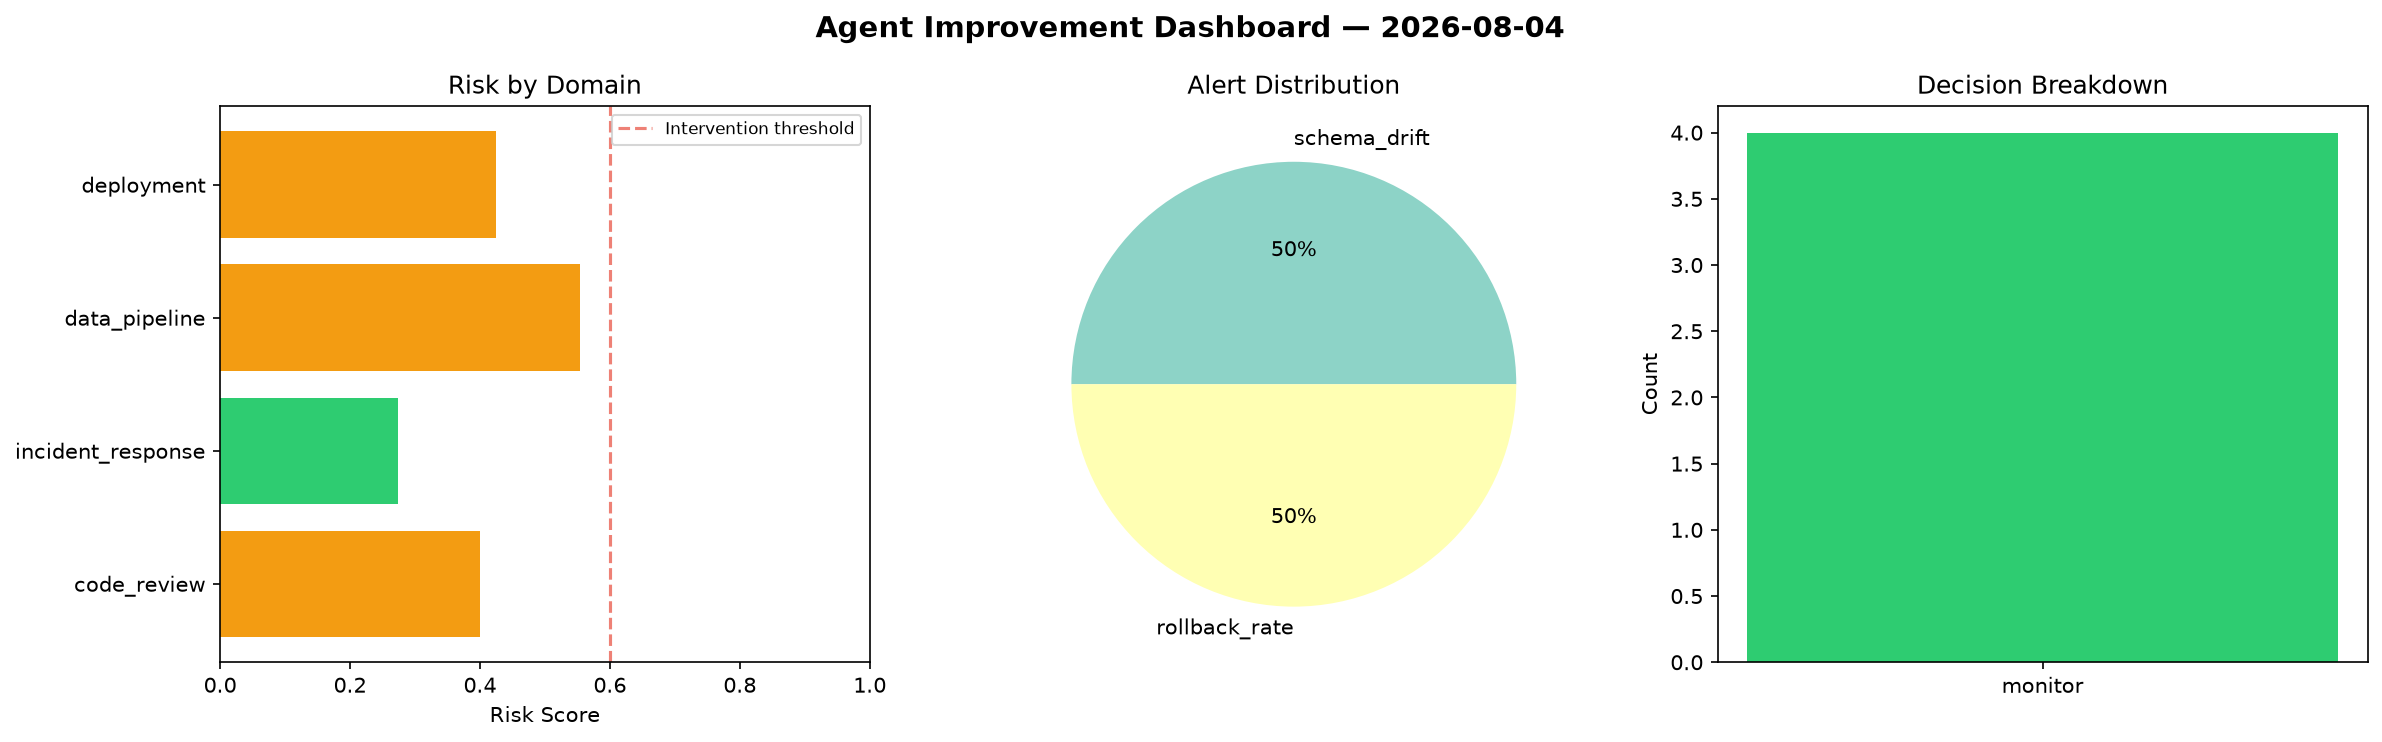
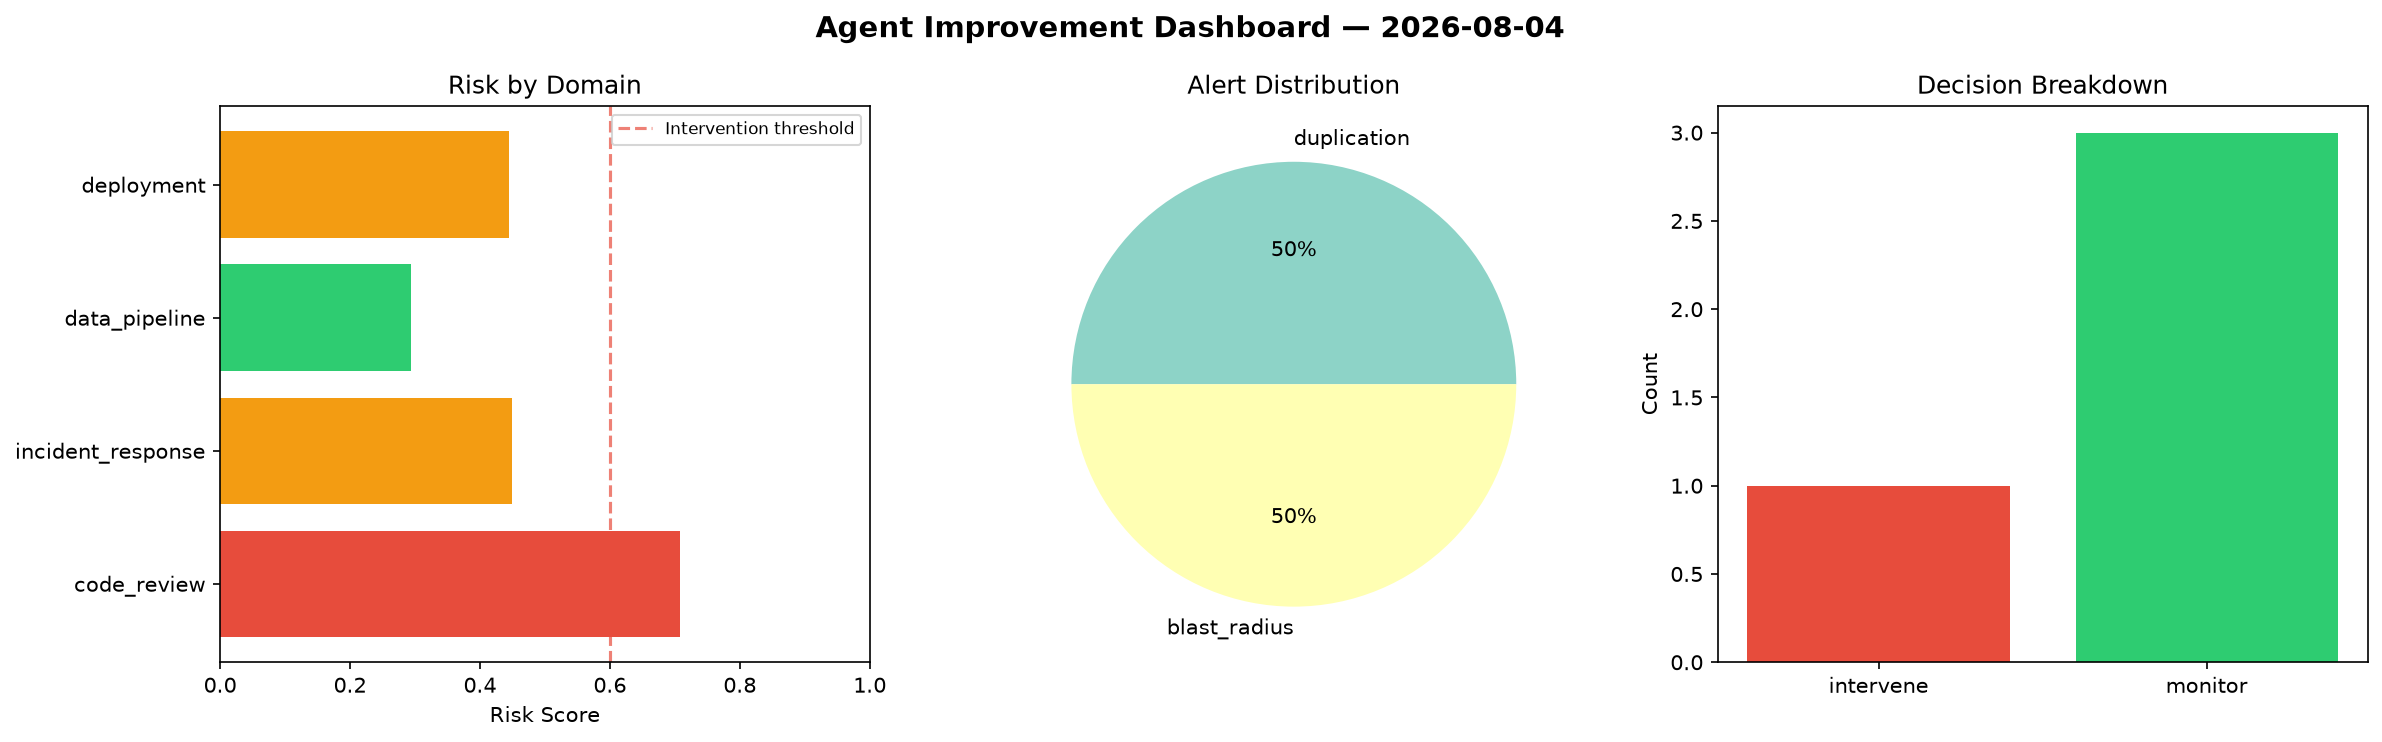
agent-improvement: daily cycle 2026-08-04T21:34

diff --git a/logs/2026-08-04.md b/logs/2026-08-04.md
@@ -1,6 +1,6 @@
 # Agent Improvement Report — 2026-08-04
 
-**Cycle ID:** `a06a58cc` | **Avg Risk:** 0.413 | **Interventions:** 0/4
+**Cycle ID:** `e6a07523` | **Avg Risk:** 0.474 | **Interventions:** 1/4
 
 ![Dashboard](2026-08-04_dashboard.png)
 
@@ -10,18 +10,18 @@
 
 | Domain | Risk Score | Decision | Alerts |
 |--------|-----------|----------|--------|
-| code_review | 0.4004 | monitor | none |
-| incident_response | 0.2732 | monitor | none |
-| data_pipeline | 0.554 | monitor | schema_drift |
-| deployment | 0.4245 | monitor | rollback_rate |
+| code_review | 0.7073 | intervene | duplication |
+| incident_response | 0.4494 | monitor | blast_radius |
+| data_pipeline | 0.2941 | monitor | none |
+| deployment | 0.4453 | monitor | none |
 
 ## Delta vs Yesterday
 
 | Domain | Today | Yesterday | Change |
 |--------|-------|-----------|--------|
-| code_review | 0.4004 | 0.4307 | 📉 -7.0% |
-| incident_response | 0.2732 | 0.1597 | 📈 71.1% |
-| data_pipeline | 0.554 | 0.6513 | 📉 -14.9% |
-| deployment | 0.4245 | 0.4579 | 📉 -7.3% |
+| code_review | 0.7073 | 0.4307 | 📈 64.2% |
+| incident_response | 0.4494 | 0.1597 | 📈 181.4% |
+| data_pipeline | 0.2941 | 0.6513 | 📉 -54.8% |
+| deployment | 0.4453 | 0.4579 | 📉 -2.8% |
 
-**Refinement:** `{'adjustment': 'tighten_thresholds', 'trend': 'degrading', 'window': 4}`
+**Refinement:** `{'adjustment': 'maintain', 'trend': 'improving', 'window': 4}`
